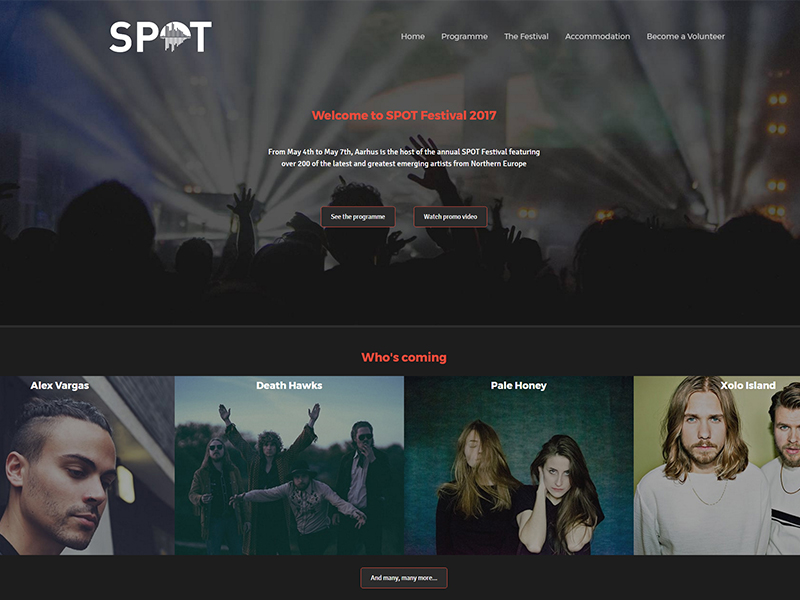
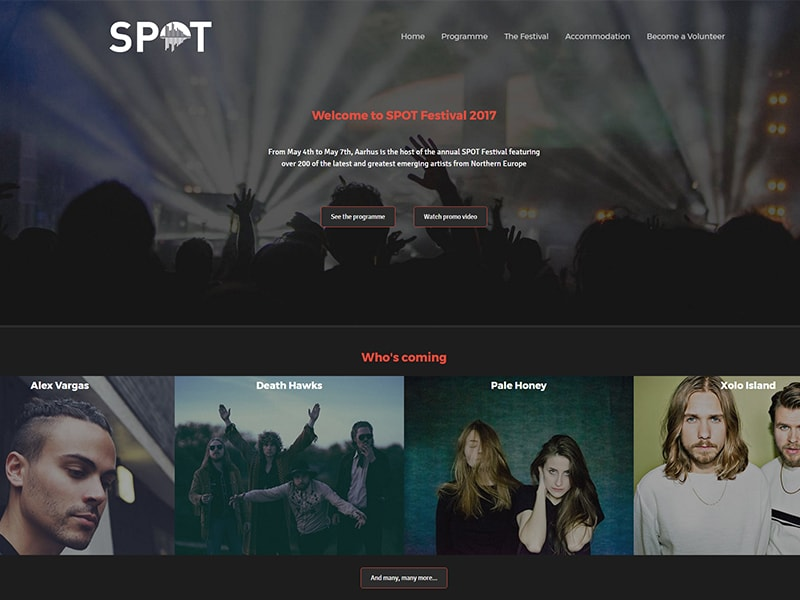
Optimized images, add new sitemap, and more
* Optimized some of the images used on the site

* Added an updated sitemap.xml

* Fixed a mistake on the While You Wait portfolio piece

* Removed CV button from 'About' page. For unknown reasons this change
did not upload with the previous commit (which it should've).

diff --git a/while-you-wait.php b/while-you-wait.php
@@ -19,7 +19,7 @@
 					<h3 class="itemSection">The project</h3>
 					<p class="itemText">For the first-year exam project of the Multimedia Design and Communication programme at Business Academy Aarhus, I and my team (Lavinia Avadanei, Lasma Pastare, and Jevgenijs Zaicevs) created a website and visual identity for While You Wait. While You Wait is an application available on iOS and Android that helps restaurants, hairdressers and similar businesses with customer management. The timeframe for this project was 4 weeks.</p>
 					<p class="itemText">During this project, my area of focus was the website design and development. Furthermore, I also took on the role as Scrum master, making sure that we utilised the Scrum framework throughout the project. The website was developed using HTML5, CSS3, JavaScript/jQuery, and PHP.</p>
-					<p class="itemText">For a more detailed description of this project and our process, I recommend checking out <a href="archive/while-you-wait-report.pdf" class="itemLink">the report we wrote in connection with it.</a>. The visual identity we created can also be seen in this report.</p>
+					<p class="itemText">For a more detailed description of this project and our process, I recommend checking out <a href="archive/while-you-wait-report.pdf" class="itemLink">the report we wrote in connection with it</a>. The visual identity we created can also be seen in this report.</p>
                     
 					<h3 class="itemSection">The Final Website</h3>
 					<p class="itemText">Having done field and desk research which gave us a better understanding of the client's product and their customers, we created personas based on the user interviews we conducted. The personas were kept in mind when designing and creating content for the website. During the process of planning/designing/developing the website, we conducted usability tests to ensure that the site was easy to navigate and that it fit with our personas needs.</p>

diff --git a/about.php b/about.php
@@ -42,11 +42,7 @@
 				
 				<p class="aboutText">Outside of design and web development, my main interests are cars, motorsport, computers, and startups.</p>
 				
-				
-				<div id="CV">
-					<button class="button" onclick="location.href='archive/bo-gjerlow-CV.pdf';">See CV</button>
-				</div>
-
+				<p class="aboutText">If you would like to get in touch, you can send me an email from the <a href="contact.php" class="itemLink">contact page</a>. I look forward to hearing from you!</p>
 			</main>
 
 			<?php include 'inc/footer.php';?>
